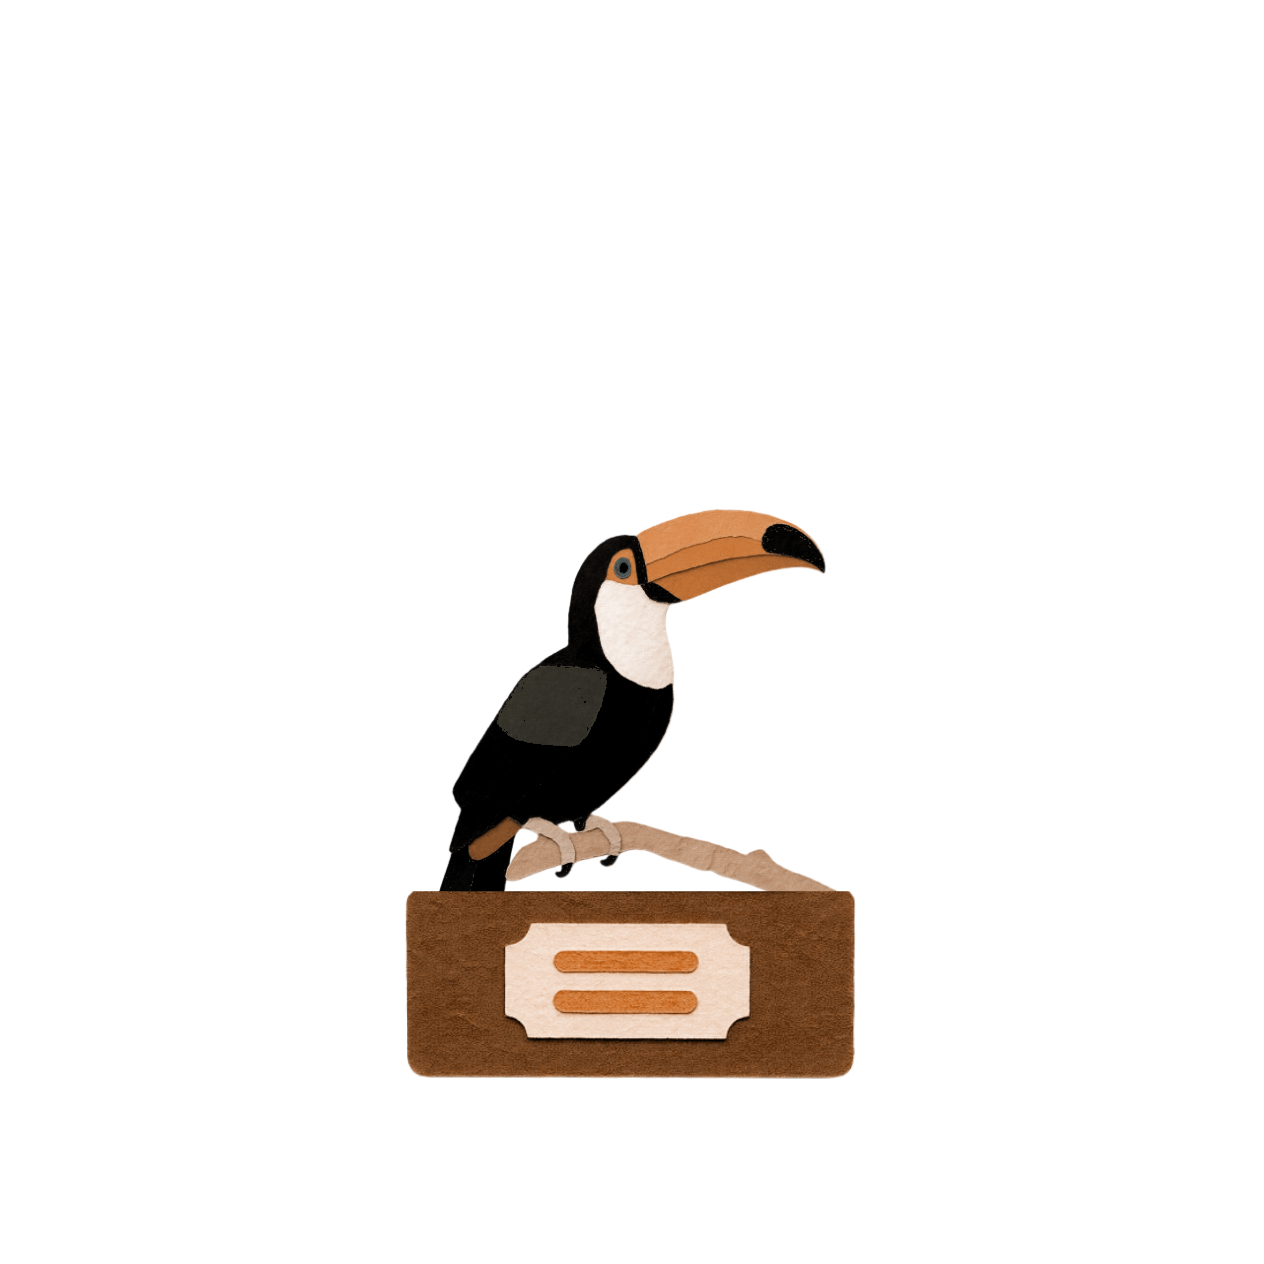
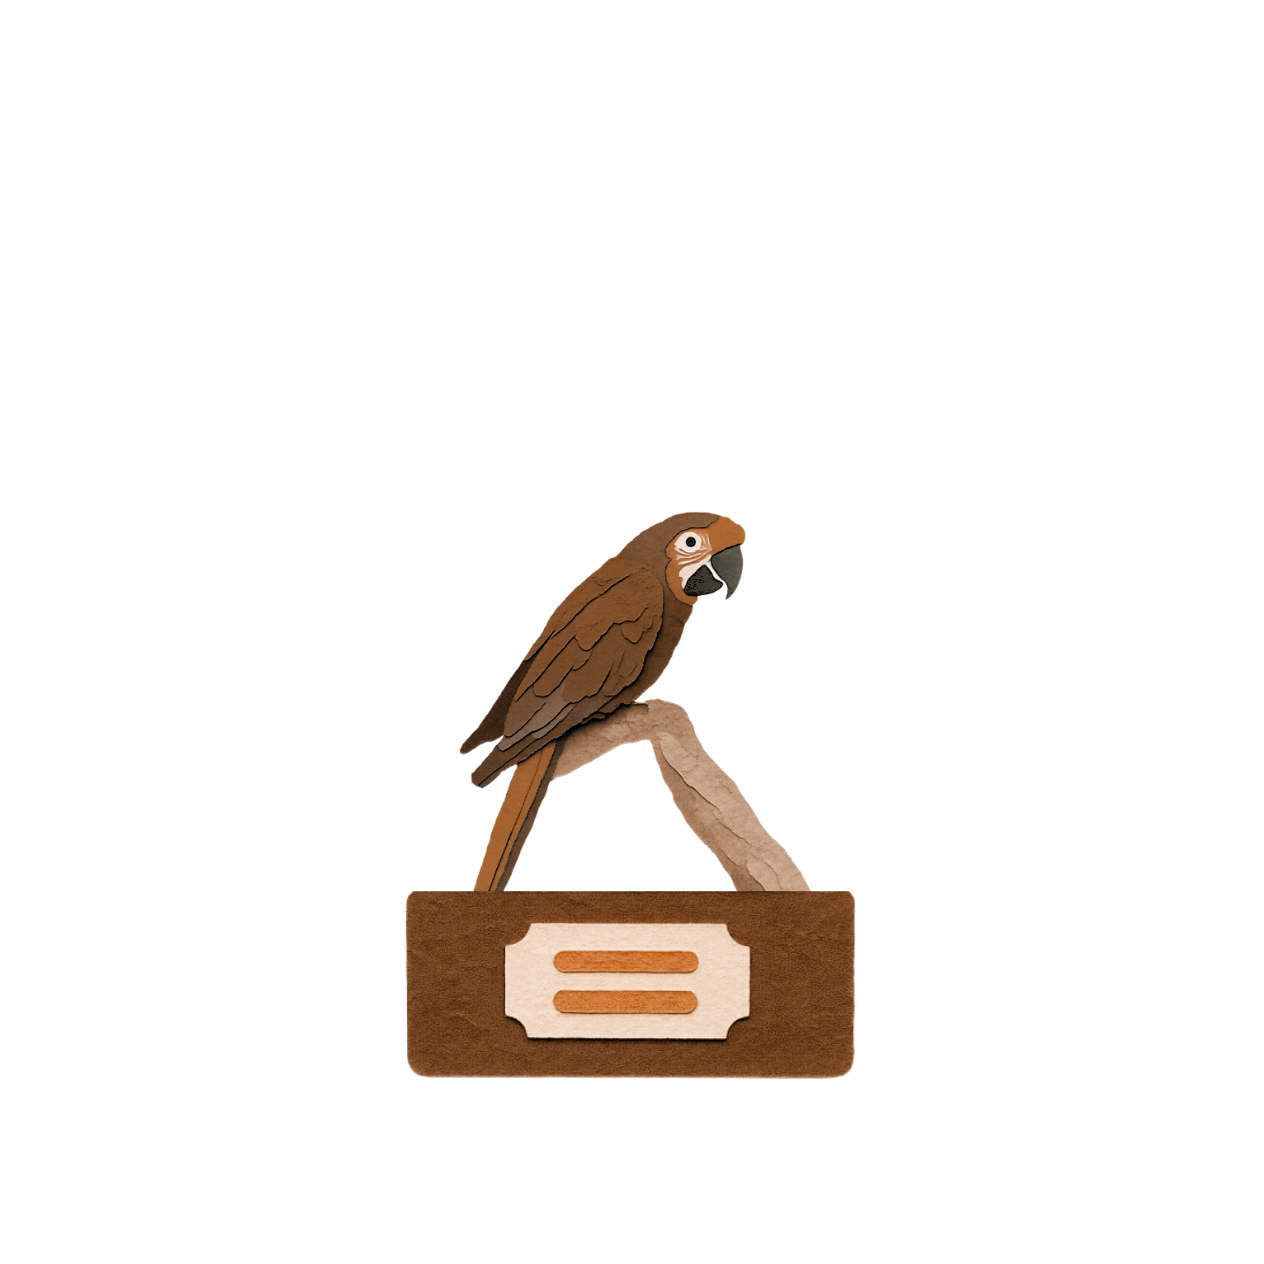
Visuels papier-craft dedies : Perroquets, perruches & cacatoes (Psittaciformes). Remplace le placeholder. Cache v229.

Changed region(s): [[0.3394, 0.4011, 0.6479, 0.7097]]

diff --git a/service-worker.js b/service-worker.js
@@ -3,7 +3,7 @@
 //   puis rafraichit en background. Prochain reload = nouvelle version.
 // - Requetes cross-origin (Firestore, iNaturalist, xeno-canto, Wikipedia, etc.) : reseau seul.
 // - Bump CACHE_VERSION quand on veut invalider volontairement.
-const CACHE_VERSION = 'v228-2026-09-16-trophee-perroquets-psittaciformes';
+const CACHE_VERSION = 'v229-2026-09-16-visuels-perroquets';
 const CACHE_NAME = 'lmb-' + CACHE_VERSION;
 
 self.addEventListener('install', (e) => {
